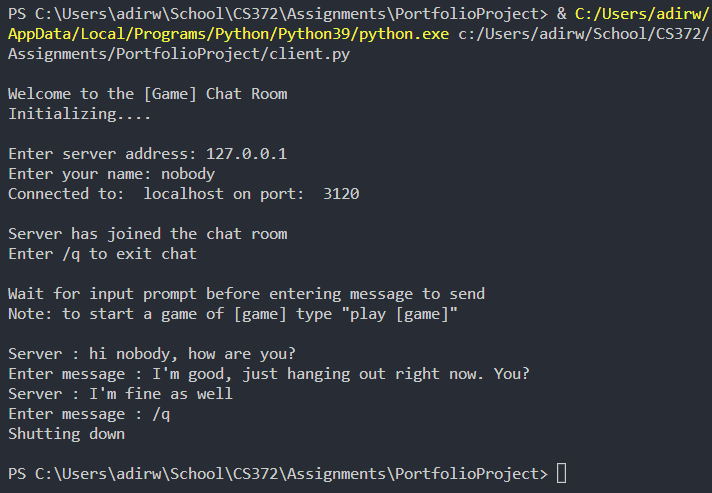
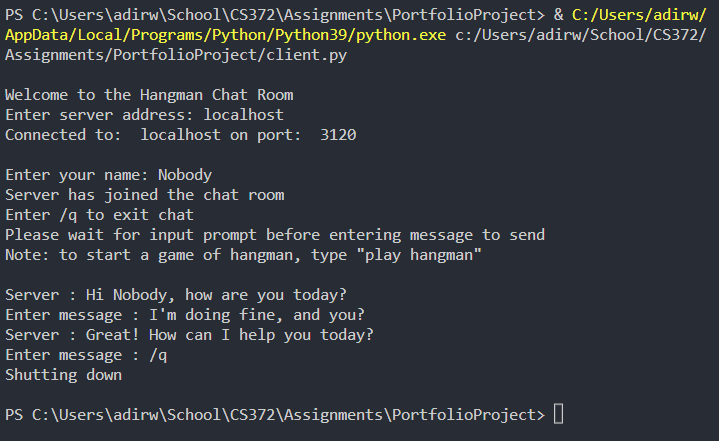
Basic game format down - not working yet

Changed region(s): [[0.0, 0.1769, 0.8034, 0.9728], [0.0, 0.0, 1.0, 0.1474], [0.4635, 0.3832, 0.5253, 0.4127]]

diff --git a/server.py b/server.py
@@ -4,11 +4,12 @@
 
 # Citation for chat room environment set up:
 # Date: 6/1/23
-# Adapted from CS 372 Project 1 and from BioGem
-# Source URL: https://www.biob.in/2018/04/simple-server-and-client-chat-using.html
+# Adapted from CS 372 Project 1 and from Geeks for Geeks
+# Source URL: https://www.geeksforgeeks.org/with-statement-in-python/
 
 
 import socket
+import time
 
 
 def setUpServerChat():
@@ -18,7 +19,8 @@ def setUpServerChat():
 
     Sets up an instance of server-side access to a chat with a client
     """
-    print('\nWelcome to the [Game] chat room')
+    print('\nWelcome to the Hangman Chat Room')
+    time.sleep(1)
 
     # Set up the server socket and data to send to clients
     with socket.socket() as serverSocket:
@@ -54,7 +56,7 @@ def chatRoom(connSocket, clientName):
     Returns: none
 
     Opens a chat room environment between a server and client 
-    from which a game of [game] can be launched
+    from which a game of hangman can be launched
     """
     # As long as chat room is open, server and client send messages back and forth
     while True:
@@ -77,6 +79,67 @@ def chatRoom(connSocket, clientName):
         if clientMessage == 'Left chat room':
             print('Shutting down \n')
             break
+        elif clientMessage == 'play hangman':
+            hangmanGame(connSocket)
+
+
+def hangmanGame(connSocket):
+    """
+    Parameters: none
+    Returns: none
+
+    Implements the hangman game within the chat room when requested by the client
+    """
+
+    # Set up the game environment
+    gameMsg = 'Welcome to a game of hangman!\n'
+    connSocket.send(gameMsg.encode())
+    secretWord = input('Choose a word for the client to guess: ')
+    time.sleep(1)
+
+    guesses = ''
+    turns = 10
+    printedGuesses = ''
+
+    while turns > 0:
+        notGuessed = 0
+
+        # Printing out the whole word with unguessed letters blurred out
+        for char in secretWord:
+            if char in guesses:
+                printedGuesses += char
+            else:
+                printedGuesses += '_'
+                notGuessed += 1
+        connSocket.send(printedGuesses)
+
+        # The client has guessed all the letters - the game ends and returns to regular chat
+        if notGuessed == 0:
+            gameWon = 'You won! The game will now exit back to the chat room'
+            connSocket.send(gameWon)
+            print('The client has won! The game is over and is exiting to the chat room')
+            break
+        
+        guessMsg = 'Guess a letter'
+        connSocket.send(guessMsg).encode()
+
+        # Receiving the client's letter guess on each turn
+        clientGuess = connSocket.recv(4096)
+        clientGuess = clientGuess.decode()
+
+        if clientGuess == '\q':
+            print('Client has left game')
+            break
+        guesses += clientGuess
+
+        if clientGuess not in secretWord:
+            turns -= 1
+            wrongLetter = 'Wrong letter. You have', turns, 'more guesses'
+            connSocket.send(wrongLetter)
+
+            if turns == 0:
+                gameOver = 'No more guesses left. You lose. The game will now exit back to the chat room'
+                connSocket.send(gameOver)
 
 
 if __name__ == '__main__':

diff --git a/client.py b/client.py
@@ -4,8 +4,8 @@
 
 # Citation for chat room environment set up:
 # Date: 6/1/23
-# Adapted from CS 372 Project 1 and from BioGem
-# Source URL: https://www.biob.in/2018/04/simple-server-and-client-chat-using.html
+# Adapted from CS 372 Project 1 and from Geeks for Geeks
+# Source URL: https://www.geeksforgeeks.org/with-statement-in-python/
 
 # Citation for textwrap:
 # Date 6/8/23
@@ -13,6 +13,7 @@
 # Source URL: https://www.pythonmorsels.com/dedent/
 
 
+import time
 import socket
 from textwrap import dedent
 
@@ -24,7 +25,8 @@ def setUpClientChat():
 
     Sets up an instance of client-side access to a chat with a server
     """
-    print('\nWelcome to the [Game] Chat Room')
+    print('\nWelcome to the Hangman Chat Room')
+    time.sleep(1)
 
     # Set up the client socket and data that sends to server
     with socket.socket() as clientSocket:
@@ -47,7 +49,7 @@ def setUpClientChat():
                 Server has joined the chat room
                 Enter /q to exit chat
                 Please wait for input prompt before entering message to send
-                Note: to start a game of [game] type "play [game]"\n"""
+                Note: to start a game of hangman, type "play hangman"\n"""
             ))
         except:
             print('Error: failed to connect')
@@ -61,7 +63,7 @@ def chatRoom(clientSocket):
     Returns: none
 
     Opens a chat room environment between a server and client 
-    from which a game of [game] can be launched
+    from which a game of hangman can be launched
     """
     # As long as chat room is open, server and client send messages back and forth
     while True:
